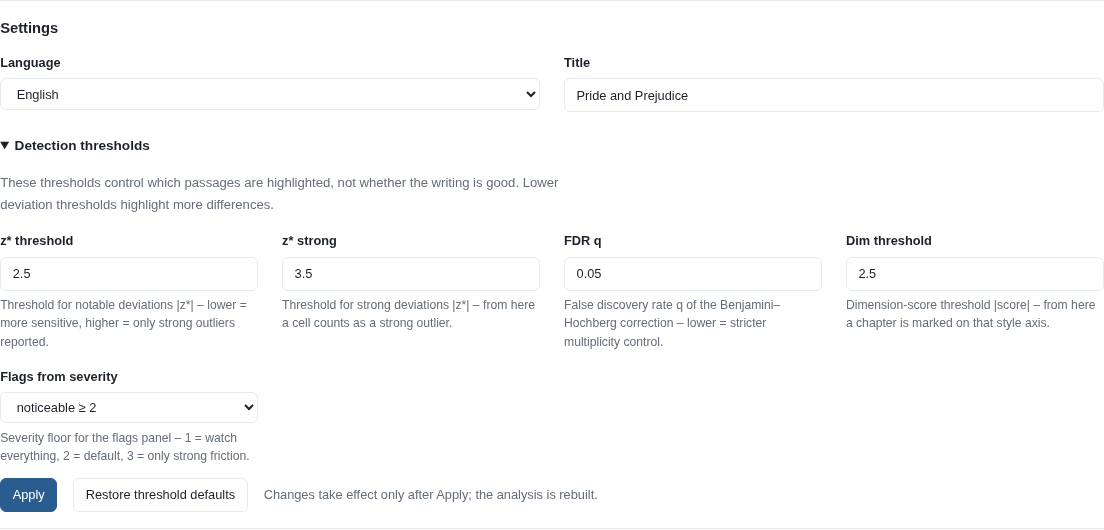
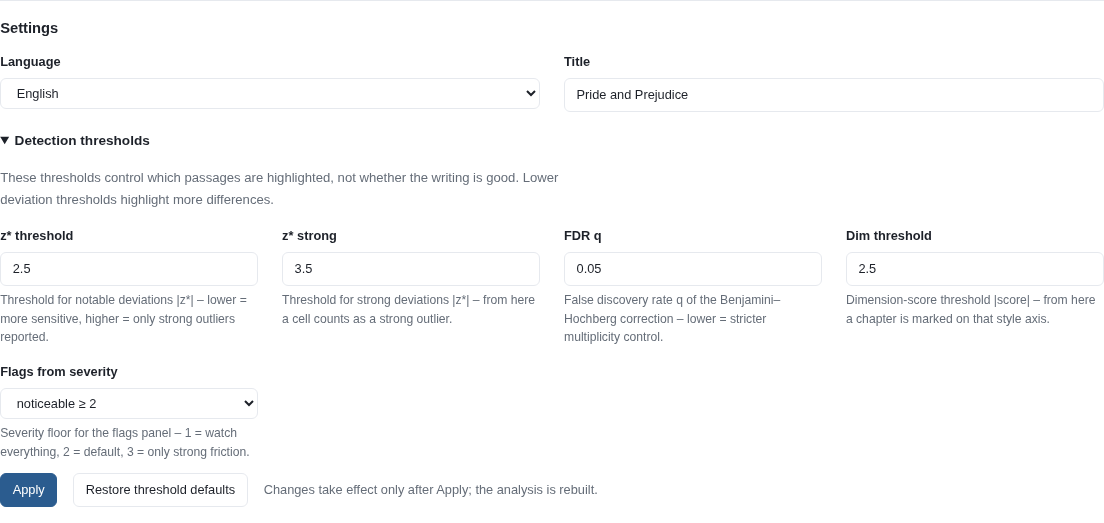
Fix control layout duplication and isolate manuscript project settings

diff --git a/src/lixity/ui/assets/dashboard.css b/src/lixity/ui/assets/dashboard.css
@@ -38,16 +38,17 @@ h1 {
 }
 .project-header { margin-bottom: 1.2rem; }
 .project-header h1 { font-family: var(--font-title); font-size: clamp(1.8rem, 4vw, 2.7rem); font-weight: 500; line-height: 1.2; letter-spacing: -.025em; margin-bottom: .5rem; }
-.settings-form { margin: 1rem 0; padding: 1rem 0; border-block: 1px solid var(--line); }
-.settings-form h3 { margin: 0 0 .8rem; font-size: .92rem; }
+.settings-form { margin: 0; }
+.settings-form h3 { margin: 0; font-size: .92rem; }
 .settings-grid { display: grid; grid-template-columns: repeat(auto-fit, minmax(min(100%, 16rem), 1fr)); gap: 1rem 1.5rem; }
 .setting-field { min-width: 0; }
 .setting-field label { display: block; font-size: .8rem; font-weight: 650; margin-bottom: .35rem; }
 .setting-field .ctl { width: 100%; min-width: 0; max-width: none; }
 .setting-field p { margin: .35rem 0 0; color: var(--muted); font-size: .76rem; line-height: 1.5; }
-.settings-advanced { margin-top: 1rem; }
+.settings-advanced { margin: 0; }
 .settings-advanced summary { cursor: pointer; font-weight: 600; font-size: .85rem; padding-block: .4rem; }
 .settings-actions, .matrix-tools { display: flex; flex-wrap: wrap; align-items: center; gap: .6rem 1rem; margin-top: .8rem; }
+.settings-form .settings-actions { margin-top: 0; }
 .panel-guide { max-width: 78ch; font-size: .82rem; color: var(--muted); line-height: 1.65; margin: .6rem 0 1rem; }
 .matrix-tools { justify-content: space-between; margin-bottom: .9rem; font-size: .78rem; }
 .matrix-tools label { display: inline-flex; align-items: center; gap: .45rem; }
@@ -851,10 +852,10 @@ body:not(.has-js-tooltips) .help:focus::after {
 .marker-note.saved { border-color: var(--present); color: var(--present); }
 .marker-note.failed { border-color: var(--flag); color: var(--flag); }
 .marker-note.gone { opacity: 0; }
-.ctl-group { display: grid; gap: .3rem; padding: .65rem 0; border-bottom: 1px solid var(--line); }
-.ctl-group:last-of-type { border-bottom: 0; }
+.ctl-group { display: grid; gap: .75rem; padding: 1rem 0; }
+.ctl-group + .ctl-group { border-top: 1px solid var(--line); }
 .ctl-label { font-size: .68rem; font-weight: 600; text-transform: uppercase; letter-spacing: .08em; color: var(--muted); }
-.ctl-note { color: var(--muted); font-size: .8rem; }
+.ctl-note { color: var(--muted); font-size: .8rem; margin: 0; }
 button.ctl, select.ctl, input.ctl {
   font: inherit;
   font-size: .8rem;

diff --git a/docs/index.html b/docs/index.html
@@ -420,7 +420,7 @@ footer {
 
   <span class="section-kicker">Adaptive Experience</span>
   <figure class="shot">
-    <a href="screenshots/dashboard-settings.png" target="_blank" rel="noopener"><img src="screenshots/dashboard-settings.png" alt="Settings with visible field labels, threshold explanations and restore-defaults action" width="1104" height="530" loading="lazy" decoding="async"/></a>
+    <a href="screenshots/dashboard-settings.png" target="_blank" rel="noopener"><img src="screenshots/dashboard-settings.png" alt="Settings with visible field labels, threshold explanations and restore-defaults action" width="1104" height="523" loading="lazy" decoding="async"/></a>
     <figcaption><strong>Settings that explain themselves</strong> &ndash; project
       choices first, detection thresholds on demand, validation before applying
       and a reset that does not silently save changes.</figcaption>

diff --git a/src/lixity/ui/assets/dashboard.js b/src/lixity/ui/assets/dashboard.js
@@ -542,10 +542,6 @@ document.querySelectorAll("[data-action]").forEach(function (btn) {
     if (btn.dataset.payload === "format") {
       payload.format = document.getElementById("fmt").value;
     }
-    if (btn.dataset.payload === "nda") {
-      payload.name = document.getElementById("nda-name").value;
-      payload.contact = document.getElementById("nda-contact").value;
-    }
     if (btn.dataset.payload === "settings") {
       var settings = document.getElementById("settings-form");
       var mild = document.getElementById("set-z-mild");

diff --git a/src/lixity/cli.py b/src/lixity/cli.py
@@ -30,6 +30,13 @@ EXIT_OK = 0
 EXIT_ERROR = 1
 
 
+def _document_title(args: argparse.Namespace, manuscript: str) -> str:
+    configured = args._project_config.get("title")
+    if isinstance(configured, str) and configured.strip():
+        return configured.strip()
+    return os.path.splitext(os.path.basename(manuscript))[0]
+
+
 def _thresholds_from_args(
     args: argparse.Namespace, config: dict[str, Any] | None = None
 ) -> FingerprintThresholds:
@@ -696,7 +703,7 @@ def _cmd_build(args: argparse.Namespace) -> int:
     metrics = analysis.metrics
     paragraphs, chapters = analysis.paragraphs, analysis.chapters
     fingerprint = analysis.fingerprint
-    title = os.path.splitext(os.path.basename(workspace.manuscript))[0]
+    title = _document_title(args, workspace.manuscript)
 
     artifacts = {
         f"{workspace.slug}_metrics.json": _json(
@@ -932,7 +939,7 @@ def main(argv: list[str] | None = None) -> int:
             help="Minimum paragraph severity for flags panel (default 2)",
         )
     args = parser.parse_args(argv)
-    project_config = load_project_config()
+    project_config = load_project_config(getattr(args, "file", None))
     args._project_config = project_config
     if hasattr(args, "language") and args.language is None:
         args.language = project_config.get("language", "en")
@@ -1027,7 +1034,7 @@ def main(argv: list[str] | None = None) -> int:
         fingerprint=fingerprint,
         dialogue=dialogue_report(text, config).to_dict(),
         characters=presence_report(text, names, config) if names else None,
-        title=os.path.basename(args.file),
+        title=_document_title(args, args.file),
         labels=resolved.labels,
         language_name=resolved.name,
         language_key=resolved.key,

diff --git a/tests/test_localization.py b/tests/test_localization.py
@@ -2,6 +2,7 @@
 
 import io
 import json
+import sys
 import tempfile
 import unittest
 from contextlib import redirect_stdout
@@ -17,6 +18,28 @@ from lixity.models import CorpusConfig
 
 
 class TestLocalization(unittest.TestCase):
+    @unittest.skipIf(sys.version_info < (3, 11), "Project TOML loading requires Python 3.11+")
+    def test_cli_uses_the_manuscript_project_from_another_directory(self):
+        with tempfile.TemporaryDirectory() as directory:
+            root = Path(directory)
+            manuscript = root / "sample.md"
+            manuscript.write_text("## Eins\n\nIch gehe und ich sehe das Haus.\n", encoding="utf-8")
+            (root / "lixity.toml").write_text('language = "de"\ntitle = "My project"\n', encoding="utf-8")
+            output = io.StringIO()
+            with redirect_stdout(output):
+                self.assertEqual(main(["analyze", str(manuscript), "--json"]), 0)
+            self.assertEqual(json.loads(output.getvalue())["meta"]["language"], "de")
+            for command in ("dashboard", "build"):
+                dashboard = root / "dashboard.html"
+                arguments = [command, str(manuscript)]
+                if command == "dashboard":
+                    arguments.extend(["-o", str(dashboard)])
+                else:
+                    dashboard = root / "exports" / "sample_dashboard.html"
+                with redirect_stdout(io.StringIO()):
+                    self.assertEqual(main(arguments), 0)
+                self.assertIn("<h1>My project</h1>", dashboard.read_text(encoding="utf-8"))
+
     def test_english_defaults_and_explicit_detection(self):
         text = "## Chapter\n\nIch gehe und ich sehe das Haus. Die Tür ist offen.\n"
         self.assertEqual(CorpusConfig().language, "en")

diff --git a/src/lixity/ui/dashboard.py b/src/lixity/ui/dashboard.py
@@ -91,13 +91,13 @@ def render_dashboard(
     title: str = "Manuscript",
     labels: Mapping[str, str] | None = None,
     language_name: str = "",
-    language_key: str = "generic",
+    language_key: str = "en",
     tense_available: bool = True,
     engine_name: str = "Lixity",
     controls: bool = False,
     api_base: str = "/api",
     manuscript_name: str = "",
-    current_language: str = "auto",
+    current_language: str | None = None,
     language_options: Sequence[Any] | None = None,
     flag_min_severity: int | None = None,
 ) -> str:
@@ -125,6 +125,8 @@ def render_dashboard(
         return format_pct(value, language_key, decimals)
 
     html_lang = language_key if language_key not in ("auto", "generic") else "en"
+    if current_language is None:
+        current_language = language_key
     if not language_options:
         language_options = [
             ("auto", "auto"),
@@ -249,17 +251,6 @@ def render_dashboard(
         parts.extend(
             f'<button class="ctl" data-action="{action}">{help_term(labels, action, L(action))}</button>'
             for action in ("sync", "audit", "prune", "gdrive", "rebuild")
-        )
-        parts.append("</div></div>")
-
-        # NDA
-        parts.append('<div class="ctl-group">')
-        parts.append(f'<span class="ctl-label">{help_term(labels, "nda", L("new_nda"))}</span>')
-        parts.append('<div class="row">')
-        parts.append(f'<input class="ctl" id="nda-name" placeholder="{L("name")}"/>')
-        parts.append(f'<input class="ctl" id="nda-contact" placeholder="{L("contact")}"/>')
-        parts.append(
-            f'<button class="ctl" data-action="nda" data-payload="nda">{L("create")}</button>'
         )
         parts.append("</div></div>")
 

diff --git a/tests/test_settings_ui.py b/tests/test_settings_ui.py
@@ -25,6 +25,20 @@ class Controls(HTMLParser):
 
 
 class TestSettingsUi(unittest.TestCase):
+    def test_settings_language_matches_analysis_unless_explicitly_overridden(self):
+        for language in ("en", "de", "fr", "generic"):
+            rendered = render_dashboard([], [], controls=True, language_key=language)
+            self.assertIn(f'<option value="{language}" selected>', rendered)
+        rendered = render_dashboard([], [], controls=True, language_key="de", current_language="auto")
+        self.assertIn('<option value="auto" selected>', rendered)
+
+    def test_controls_have_one_nda_workflow_and_shared_groups(self):
+        rendered = render_dashboard([], [], controls=True)
+        self.assertNotIn('id="nda-name"', rendered)
+        self.assertNotIn('data-action="nda"', rendered)
+        self.assertEqual(rendered.count('id="nda-add-btn"'), 1)
+        self.assertIn('class="settings-form ctl-group"', rendered)
+
     def test_localized_settings_keep_machine_readable_number_values(self):
         for language in ("en", "de", "fr", "es", "it", "pt", "nl"):
             with self.subTest(language=language):

diff --git a/src/lixity/ui/settings.py b/src/lixity/ui/settings.py
@@ -19,7 +19,7 @@ def settings_form(
 
     defaults = FingerprintThresholds()
     parts = [
-        '<form id="settings-form" class="settings-form" novalidate>',
+        '<form id="settings-form" class="settings-form ctl-group" novalidate>',
         f'<h3>{translated("settings")}</h3>',
         '<div class="settings-grid">',
         f'<div class="setting-field"><label for="set-language">{translated("language")}</label>',

diff --git a/CHANGELOG.md b/CHANGELOG.md
@@ -34,6 +34,12 @@ this project uses [Semantic Versioning](https://semver.org/spec/v2.0.0.html).
 
 ### Fixed
 
+- Control groups share one spacing and separator rule; the duplicate legacy NDA
+  entry form is removed in favor of the encrypted NDA manager.
+- Settings display the analysis language unless the host explicitly selects auto.
+- CLI configuration follows an explicitly selected manuscript's directory;
+  dashboard and workspace builds honor the configured project title.
+
 - Localized settings no longer write decimal commas into HTML number values.
 - Matrix color legends reflect the actual color scale rather than the configured
   detection cutoff; reference rows respect the configured minimum sample size.

diff --git a/docs/USAGE.md b/docs/USAGE.md
@@ -723,6 +723,12 @@ FileUtils.atomic_write_if_changed("ui.html", html)  # False if unchanged
 
 ## Configuration (`CorpusConfig`)
 
+CLI commands with an explicit manuscript path load project settings relative to
+that manuscript, not the shell's working directory. Without an explicit path,
+workspace discovery starts in the current directory. The configured `title`
+is used by both `dashboard` and `build`; artifact filenames still follow the
+manuscript filename. An explicit `--language` overrides the project language.
+
 | Field | Default | Purpose |
 | :--- | :--- | :--- |
 | `language` | `de` | Language profile key (`auto` when set by the CLI). |
